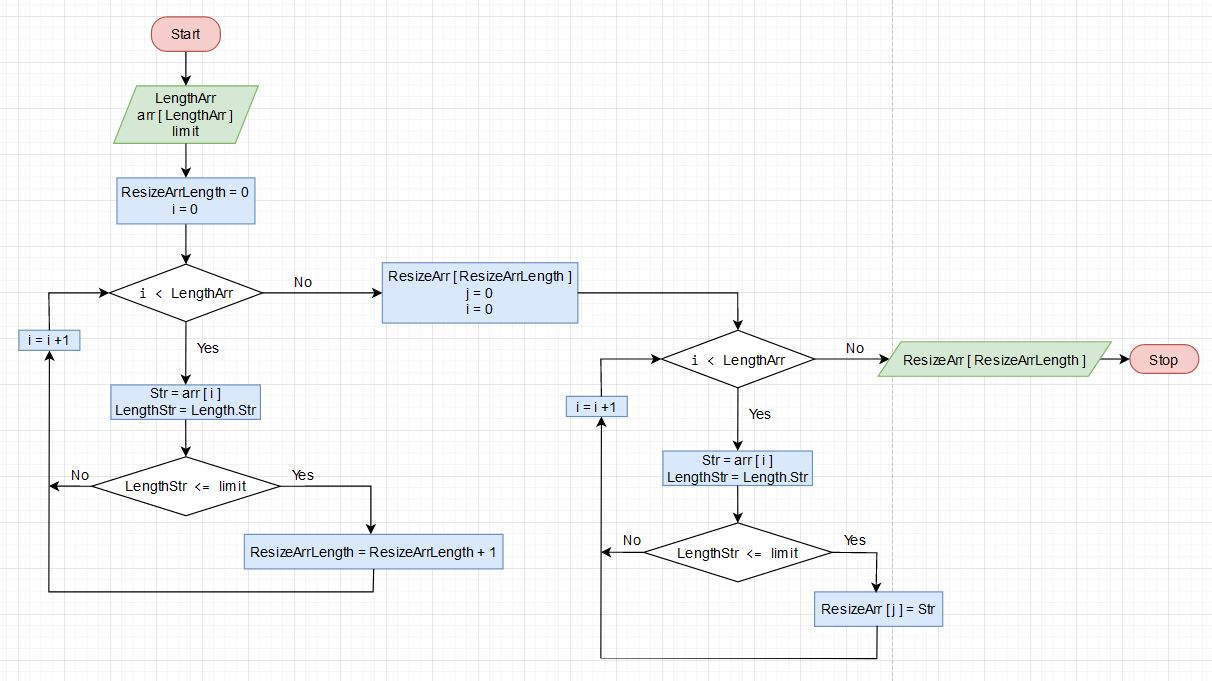
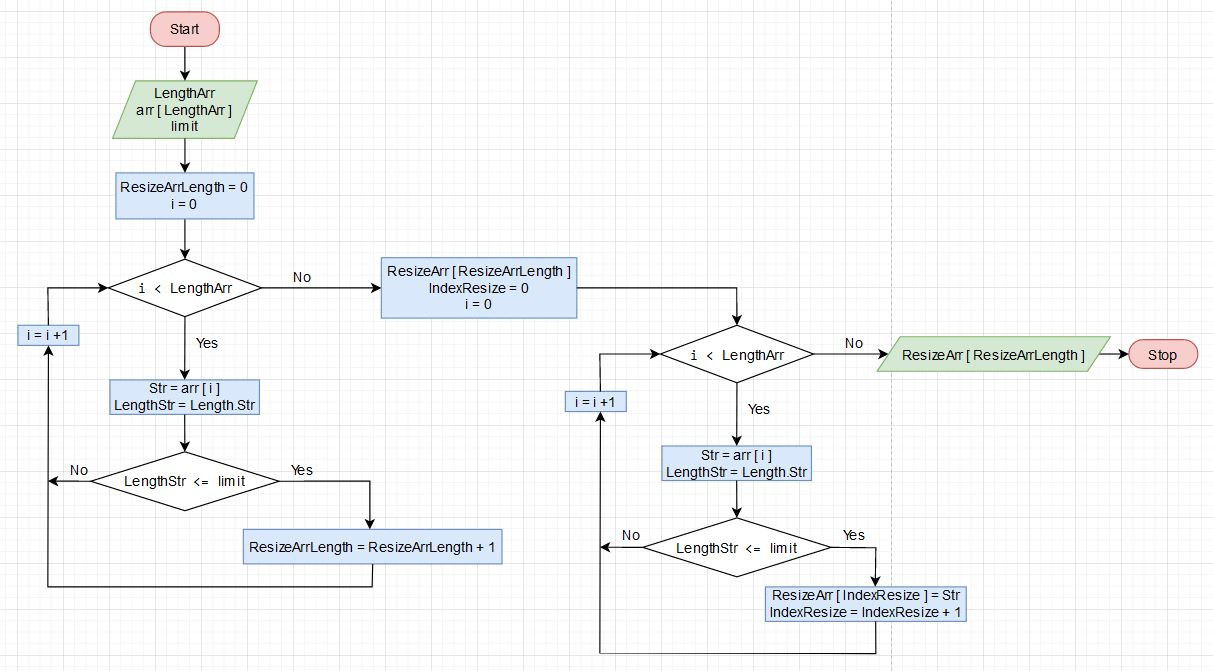
коррекция схемы, небольшие правки в переменных программы, добавляем README

diff --git a/README.md b/README.md
@@ -1,0 +1,35 @@
+#Задача: Написать программу, которая из имеющегося массива строк формирует новый массив из строк, длина которых меньше, либо равна 3 символам. Первоначальный массив можно ввести с клавиатуры, либо задать на старте выполнения алгоритма. При решении не рекомендуется пользоваться коллекциями, лучше обойтись исключительно массивами.
+
+Примеры:
+[“Hello”, “2”, “world”, “:-)”] → [“2”, “:-)”]
+[“1234”, “1567”, “-2”, “computer science”] → ["-2"]
+[“Russia”, “Denmark”, “Kazan”] → []
+
+Для начала зададим массив строк Counting (Считалочка), количество элементов массива не фиксировано для универсальности дальнейшего использования программы, элементы массива заданы.
+
+Для читабельности программы отразим в консоли заданный массив и добавим поясняющий комментарий. Для чего зададим обычный метод void PrintArray, принимающий на вход массив строк, и печатающий массив в консоль.
+Печатаем комментарий: "Задан массив строк: ". После применяем к заданному массиву метод печати PrintArray(Counting). И выведем в консоль пустую строку 2 раза для читабельности.
+
+Для решения основной задачи формируем отдельный метод ResizeStringsArr который на входе примет массив строк arr, и переменную limit - численный лимит  символов, определяющий проходной порог каждого элемента заданного массива в новый. По итогу выполнения метод вычислит размер будущего массива, задаст значения элементов, передаст его в программу.
+Блок схема принципа работы данного метода:
+
+(![Схема](Algorithm of the main part method.jpg))
+
+Для избежания формирования массива с неизвестным количеством элементов, вычислим размер будущего массива, для чего зададим числовую переменную ResizeArrLength. Используя цикл for пройдёмся по элементам входящего массива arr. Значение каждого элемента arr зададим в строковую переменную Str, так мы можем узнать количество символов определённого элемента используя Str.Length. Применив оператор условия if сравним количество символов элемента arr c пороговым лимитом символов limit. Str.Length <= limit, при выполнении данного условия увеличиваем размер переменной ResizeArrLength на единицу. Таким образом после перебора всех элементов arr получим точное количество индексов будущего массива в виде значения ResizeArrLength, или отсутствие таковых.
+
+Зная размер, задаём вычисляемый массив строк ResizeArr с количеством элементов ResizeArrLength, пока заполненный пустыми значениями. 
+Можно  и нужно заполненить массивв значениями. Для этого вводим переменную IndexResize которая будет означать индекс назначаемого элемента, как положено, начинаем с нулевого. 
+Далее повторно используя цикл for пройдёмся по элементам входящего массива arr. Повторно же значение каждого элемента arr зададим в строковую переменную Str, и так же определяем проходные элементы оператором условия if (Str.Length <= limit), но действие теперь будет иное - элементу массива ResizeArr под индексом IndexResize присваиваем значение переменной Str, по сути значение элемента входящего массива arr, удовлетворяющего заданное условие в количество символов limit.
+
+В конце метода возвращаем искомый массив return ResizeArr.
+Конец метода ResizeStringsArr.
+
+Добавим комментарий в консоль: "Преобразованный массив строк:".
+
+Для дальнейшего использования или вывода искомого массива, задаём массив строк ResultArr и присваеваем ему результат работы метода ResizeStringsArr, указав входящие данные уже в виде определённых величин, соответственно начального массива Counting и числовым значением "3", согласно условиям.
+
+Для печати результата работы программы в консоль применим указанный выше метод печати массива к ResultArr.
+
+Программа обладает универсальностью, можно менять количество элементов и их значение у входящего массива, можно менять лимит по количеству символов.
+
+Спасибо за внимание.
